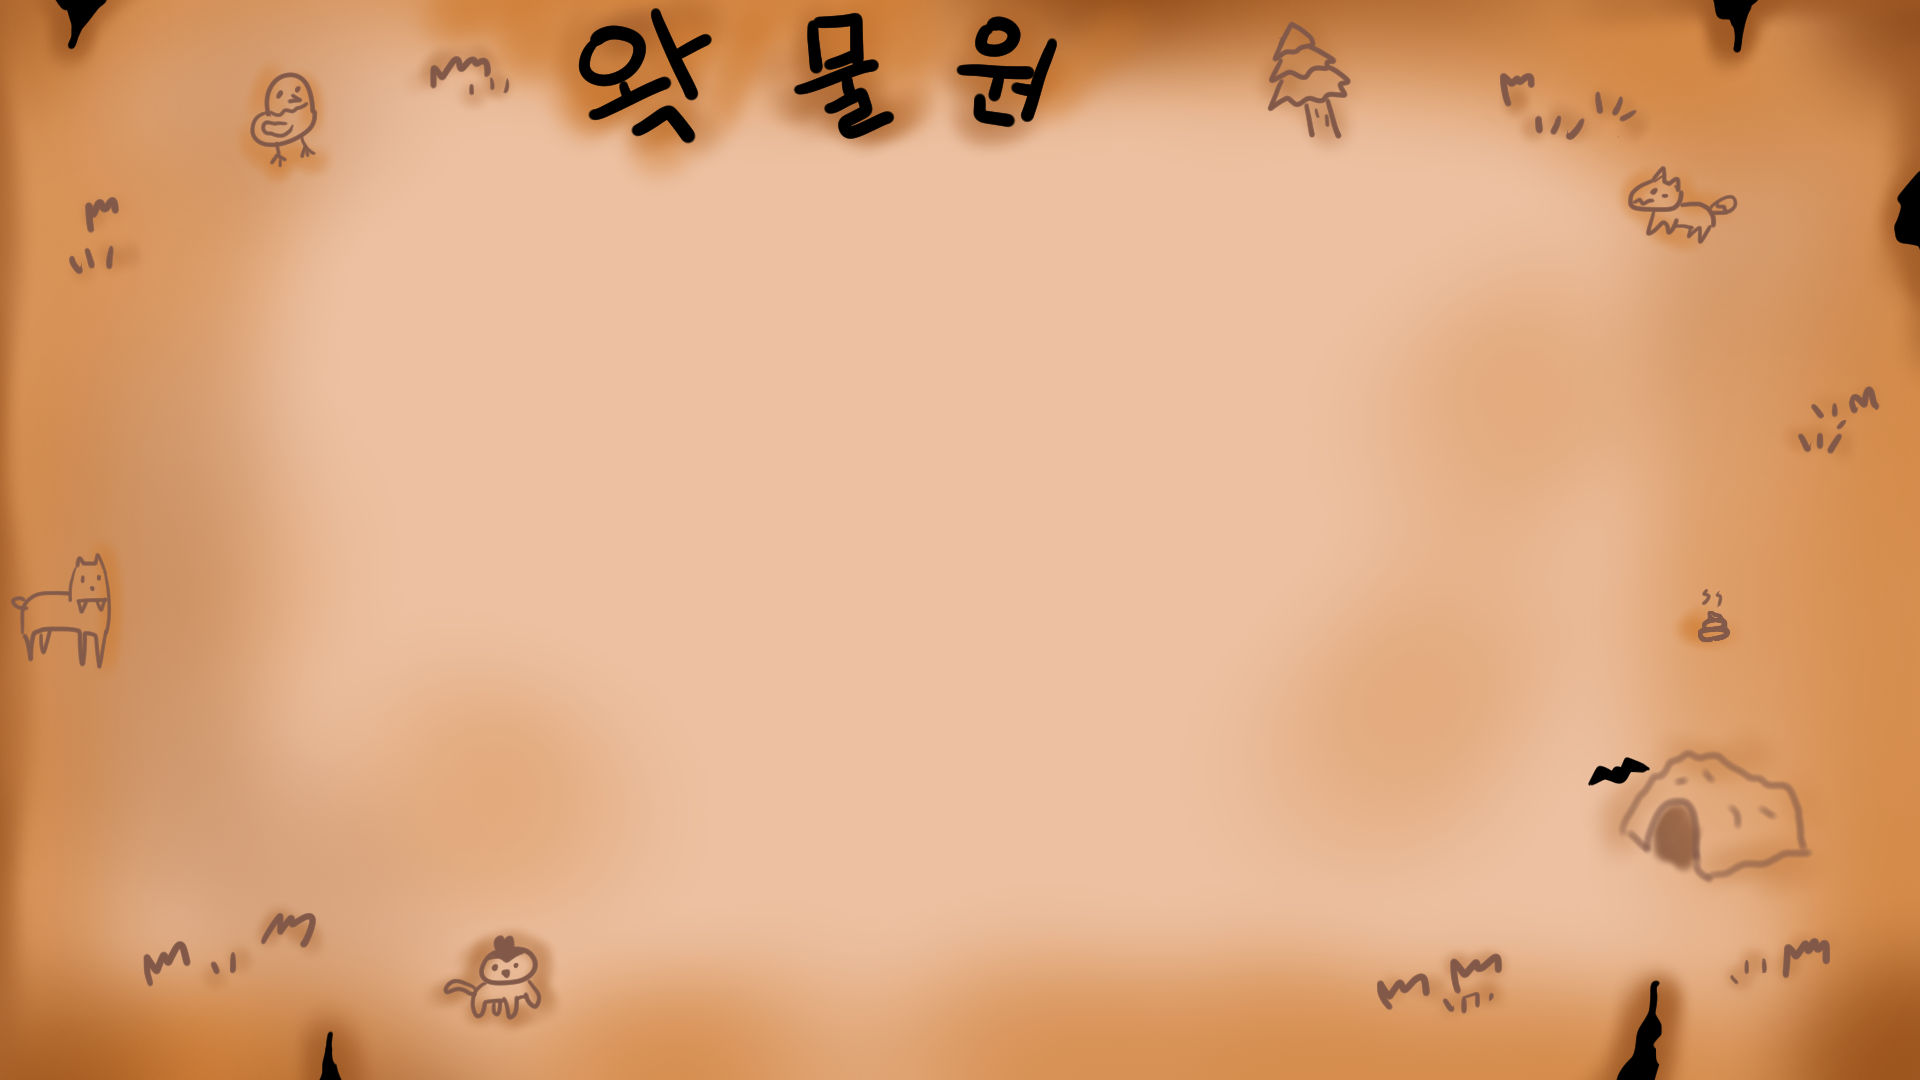
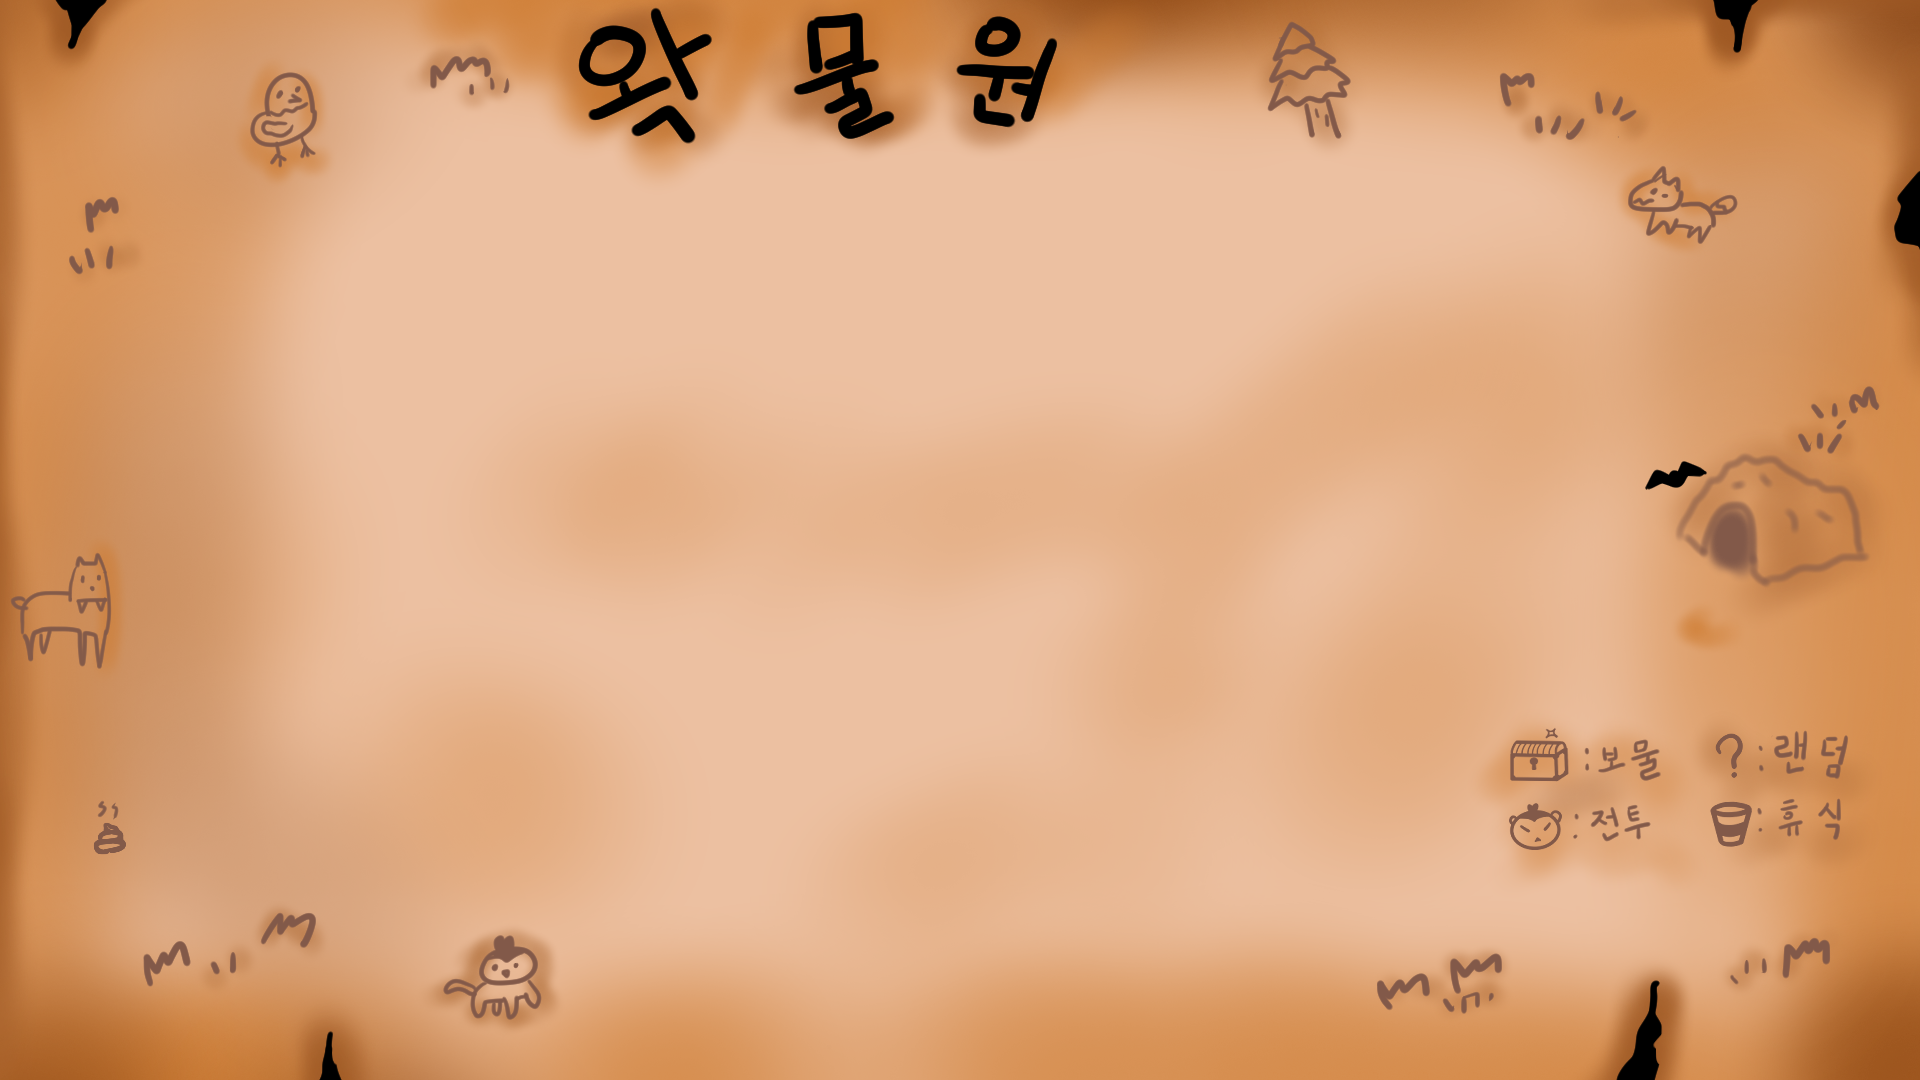
Feat: point mark 추가
- point 종류 추가

diff --git a/Assets/Script/Stage/LineManager.cs b/Assets/Script/Stage/LineManager.cs
@@ -4,7 +4,7 @@ using UnityEngine;
 
 public class LineManager : MonoBehaviour
 {
-    const int StageNameLength = 2;
+    const int StageNameLength = 5;
     public Sprite[] pointImages;
     private SpriteRenderer[] points;
 
@@ -25,16 +25,21 @@ public class LineManager : MonoBehaviour
 
         for (int i=2; i<points.Length-1 ; ++i)
         {
-            int stageIdx = Random.Range(0, StageNameLength);
+            int stageIdx = Random.Range(0, StageNameLength-1);
             stageList.Add((StageName)stageIdx);
             points[i].sprite = pointImages[stageIdx];
         }
 
+        points[points.Length -1].sprite = pointImages[(int)StageName.treasure];
+        stageList.Add(StageName.treasure);
     }
 }
 
 public enum StageName
 {
     start, 
-    cafe
+    battle,
+    cafe,
+    question,
+    treasure
 }
